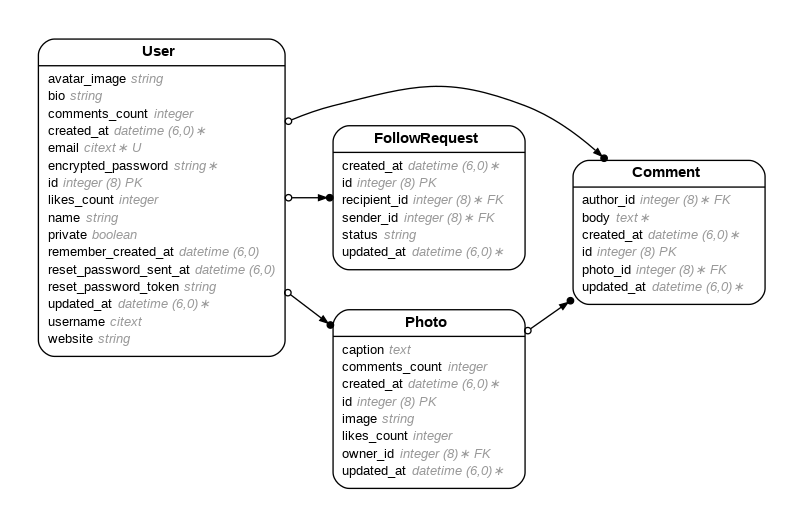
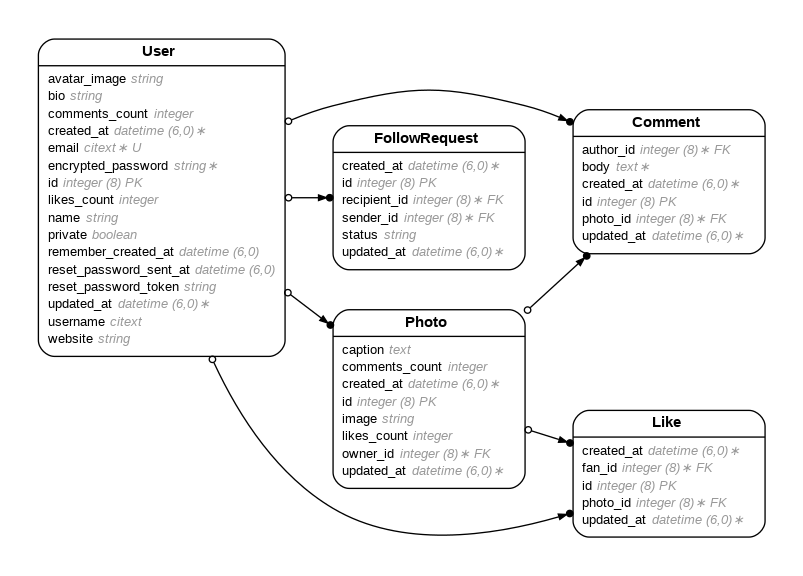
generated like and edited model

diff --git a/app/controllers/likes_controller.rb b/app/controllers/likes_controller.rb
@@ -1,0 +1,70 @@
+class LikesController < ApplicationController
+  before_action :set_like, only: %i[ show edit update destroy ]
+
+  # GET /likes or /likes.json
+  def index
+    @likes = Like.all
+  end
+
+  # GET /likes/1 or /likes/1.json
+  def show
+  end
+
+  # GET /likes/new
+  def new
+    @like = Like.new
+  end
+
+  # GET /likes/1/edit
+  def edit
+  end
+
+  # POST /likes or /likes.json
+  def create
+    @like = Like.new(like_params)
+
+    respond_to do |format|
+      if @like.save
+        format.html { redirect_to @like, notice: "Like was successfully created." }
+        format.json { render :show, status: :created, location: @like }
+      else
+        format.html { render :new, status: :unprocessable_entity }
+        format.json { render json: @like.errors, status: :unprocessable_entity }
+      end
+    end
+  end
+
+  # PATCH/PUT /likes/1 or /likes/1.json
+  def update
+    respond_to do |format|
+      if @like.update(like_params)
+        format.html { redirect_to @like, notice: "Like was successfully updated." }
+        format.json { render :show, status: :ok, location: @like }
+      else
+        format.html { render :edit, status: :unprocessable_entity }
+        format.json { render json: @like.errors, status: :unprocessable_entity }
+      end
+    end
+  end
+
+  # DELETE /likes/1 or /likes/1.json
+  def destroy
+    @like.destroy!
+
+    respond_to do |format|
+      format.html { redirect_to likes_path, status: :see_other, notice: "Like was successfully destroyed." }
+      format.json { head :no_content }
+    end
+  end
+
+  private
+    # Use callbacks to share common setup or constraints between actions.
+    def set_like
+      @like = Like.find(params.expect(:id))
+    end
+
+    # Only allow a list of trusted parameters through.
+    def like_params
+      params.expect(like: [ :fan_id, :photo_id ])
+    end
+end

diff --git a/db/schema.rb b/db/schema.rb
@@ -10,7 +10,7 @@
 #
 # It's strongly recommended that you check this file into your version control system.
 
-ActiveRecord::Schema[8.0].define(version: 2025_07_01_000944) do
+ActiveRecord::Schema[8.0].define(version: 2025_07_01_002443) do
   # These are extensions that must be enabled in order to support this database
   enable_extension "citext"
   enable_extension "pg_catalog.plpgsql"
@@ -32,6 +32,15 @@ ActiveRecord::Schema[8.0].define(version: 2025_07_01_000944) do
     t.datetime "updated_at", null: false
     t.index ["recipient_id"], name: "index_follow_requests_on_recipient_id"
     t.index ["sender_id"], name: "index_follow_requests_on_sender_id"
+  end
+
+  create_table "likes", force: :cascade do |t|
+    t.bigint "fan_id", null: false
+    t.bigint "photo_id", null: false
+    t.datetime "created_at", null: false
+    t.datetime "updated_at", null: false
+    t.index ["fan_id"], name: "index_likes_on_fan_id"
+    t.index ["photo_id"], name: "index_likes_on_photo_id"
   end
 
   create_table "photos", force: :cascade do |t|
@@ -212,6 +221,8 @@ ActiveRecord::Schema[8.0].define(version: 2025_07_01_000944) do
   add_foreign_key "comments", "users", column: "author_id"
   add_foreign_key "follow_requests", "users", column: "recipient_id"
   add_foreign_key "follow_requests", "users", column: "sender_id"
+  add_foreign_key "likes", "photos"
+  add_foreign_key "likes", "users", column: "fan_id"
   add_foreign_key "photos", "users", column: "owner_id"
   add_foreign_key "solid_queue_blocked_executions", "solid_queue_jobs", column: "job_id", on_delete: :cascade
   add_foreign_key "solid_queue_claimed_executions", "solid_queue_jobs", column: "job_id", on_delete: :cascade

diff --git a/app/models/like.rb b/app/models/like.rb
@@ -1,0 +1,24 @@
+# == Schema Information
+#
+# Table name: likes
+#
+#  id         :bigint           not null, primary key
+#  created_at :datetime         not null
+#  updated_at :datetime         not null
+#  fan_id     :bigint           not null
+#  photo_id   :bigint           not null
+#
+# Indexes
+#
+#  index_likes_on_fan_id    (fan_id)
+#  index_likes_on_photo_id  (photo_id)
+#
+# Foreign Keys
+#
+#  fk_rails_...  (fan_id => users.id)
+#  fk_rails_...  (photo_id => photos.id)
+#
+class Like < ApplicationRecord
+  belongs_to :fan, class_name: "User"
+  belongs_to :photo
+end

diff --git a/db/migrate/20250701002443_create_likes.rb b/db/migrate/20250701002443_create_likes.rb
@@ -1,0 +1,10 @@
+class CreateLikes < ActiveRecord::Migration[8.0]
+  def change
+    create_table :likes do |t|
+      t.references :fan, null: false, foreign_key: { to_table: :users }
+      t.references :photo, null: false, foreign_key: true
+
+      t.timestamps
+    end
+  end
+end

diff --git a/config/routes.rb b/config/routes.rb
@@ -1,4 +1,5 @@
 Rails.application.routes.draw do
+  resources :likes
   resources :follow_requests
   resources :comments
   resources :photos
